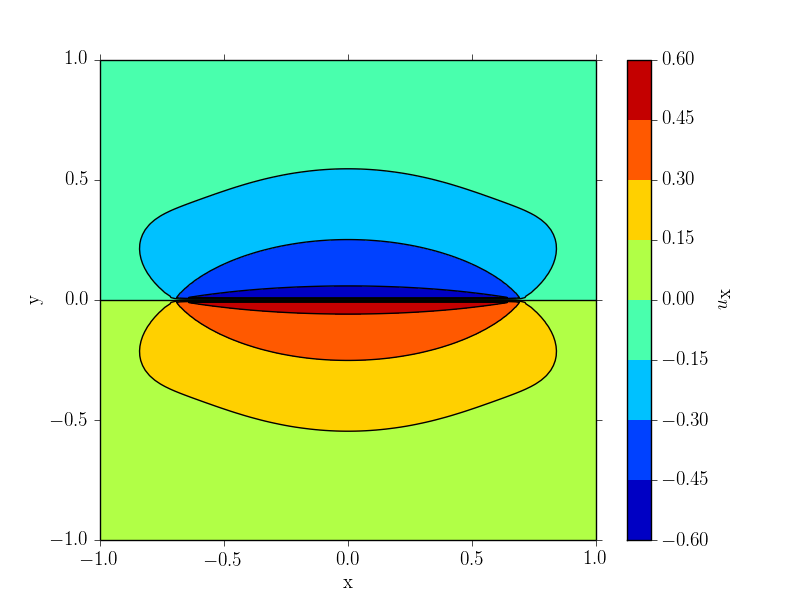
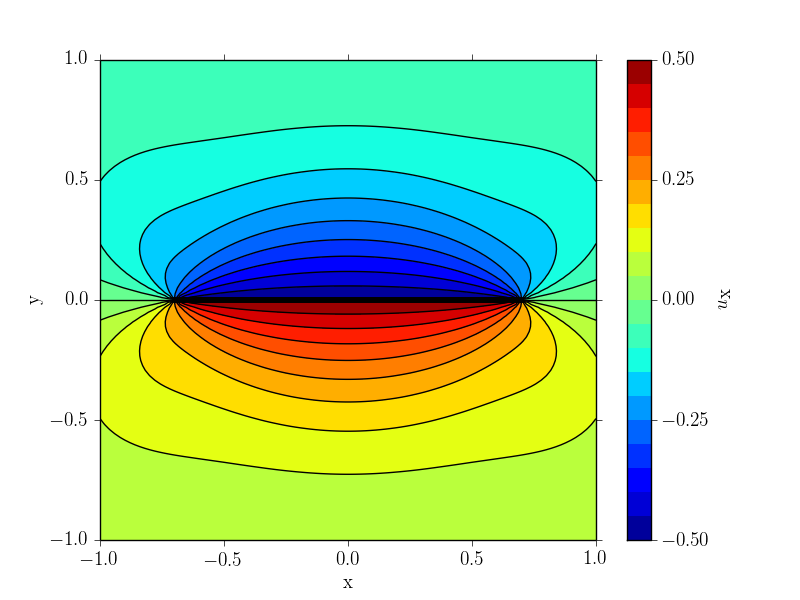
Fixed up image.

diff --git a/test_okada.py b/test_okada.py
@@ -60,11 +60,15 @@ def test_dc3d():
             assert(success == 0)
             ux[i, j] = u[0]
 
-    cntrf = contourf(x, y, ux.T)
-    contour(x, y, ux.T, colors = 'k', linestyles = 'solid')
+    levels = linspace(-0.5, 0.5, 21)
+    cntrf = contourf(x, y, ux.T, levels = levels)
+    contour(x, y, ux.T, colors = 'k', levels = levels, linestyles = 'solid')
     xlabel('x')
     ylabel('y')
     cbar = colorbar(cntrf)
+    tick_locator = matplotlib.ticker.MaxNLocator(nbins=5)
+    cbar.locator = tick_locator
+    cbar.update_ticks()
     cbar.set_label('$u_{\\textrm{x}}$')
     savefig("strike_slip.png")
     show()
